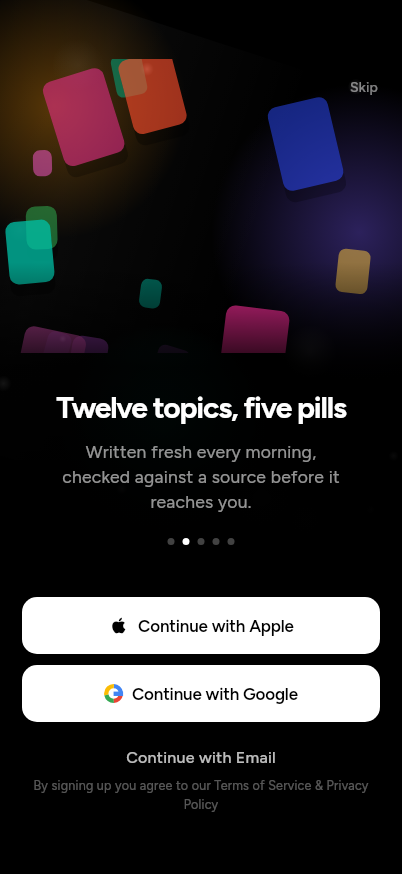
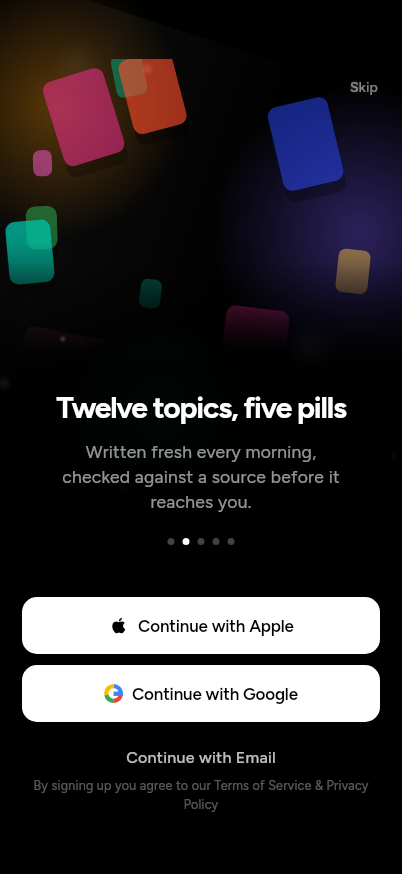
Fade the falling cards out, and take the source label off the card
Two things the phone shots showed.

The cards stopped at the bottom of their box on a straight line. Cards
falling past should leave the picture by fading; a row of them ending
level with each other is the edge of a container, and there should not
be one to see. They fade over the lower third now.

And the source label lay across the card, covering the one thing the
card is there to show. A label on top of artwork reads as a sticker
nobody peeled off. It sits above the deck and to the left, level with
Skip on the other side, so the two read as a pair of captions rather
than as something dropped on the picture.

Tests hold at 141.

Claude-Session: https://claude.ai/code/session_01N7S5NWHHUHV1bxBrKEgGPn

diff --git a/lib/screens/intro_screen.dart b/lib/screens/intro_screen.dart
@@ -883,42 +883,54 @@ class _SceneRain extends StatelessWidget {
     return SizedBox(
       width: _SceneStage.width,
       height: _SceneStage.bandHeight,
-      child: ClipRect(
-        child: Stack(
-          children: [
-            Opacity(
-              opacity: 0.5,
-              child: Stack(
-                children: [
-                  for (int i = 0; i < 10; i++)
-                    _FallingCard(
-                      left: 4 + seeded(i, 33.19) * 88,
-                      width: 16 + seeded(i, 45.11) * 12,
-                      height: 22 + seeded(i, 45.11) * 16,
-                      color: _palette[(i + 2) % _palette.length],
-                      turns: (seeded(i, 78.233) * 40 - 20) / 360,
-                      seconds: 10 + seeded(i, 21.7) * 6,
-                      offset: seeded(i, 9.13) * 14,
-                      opacity: 1,
-                      radius: 6,
-                    ),
-                ],
+      child: ShaderMask(
+        // Cards leave the picture by fading, not by meeting the bottom of
+        // their box. A row of cards ending on a straight line is the edge of
+        // a container, and there should not be one to see.
+        blendMode: BlendMode.dstIn,
+        shaderCallback: (rect) => const LinearGradient(
+          begin: Alignment.topCenter,
+          end: Alignment.bottomCenter,
+          colors: [Color(0xFFFFFFFF), Color(0xFFFFFFFF), Color(0x00FFFFFF)],
+          stops: [0, 0.62, 1],
+        ).createShader(rect),
+        child: ClipRect(
+          child: Stack(
+            children: [
+              Opacity(
+                opacity: 0.5,
+                child: Stack(
+                  children: [
+                    for (int i = 0; i < 10; i++)
+                      _FallingCard(
+                        left: 4 + seeded(i, 33.19) * 88,
+                        width: 16 + seeded(i, 45.11) * 12,
+                        height: 22 + seeded(i, 45.11) * 16,
+                        color: _palette[(i + 2) % _palette.length],
+                        turns: (seeded(i, 78.233) * 40 - 20) / 360,
+                        seconds: 10 + seeded(i, 21.7) * 6,
+                        offset: seeded(i, 9.13) * 14,
+                        opacity: 1,
+                        radius: 6,
+                      ),
+                  ],
+                ),
               ),
-            ),
-            for (int i = 0; i < 18; i++)
-              _FallingCard(
-                left: 2 + seeded(i, 12.9898) * 90,
-                width: 26 + seeded(i, 45.11) * 30,
-                height: 36 + seeded(i, 45.11) * 42,
-                color: _palette[i % _palette.length],
-                turns: (seeded(i, 78.233) * 46 - 23) / 360,
-                seconds: 6.5 + seeded(i, 21.7) * 5,
-                offset: seeded(i, 9.13) * 11,
-                opacity: 0.5 + seeded(i, 33.7) * 0.5,
-                radius: 8,
-                shadow: true,
-              ),
-          ],
+              for (int i = 0; i < 18; i++)
+                _FallingCard(
+                  left: 2 + seeded(i, 12.9898) * 90,
+                  width: 26 + seeded(i, 45.11) * 30,
+                  height: 36 + seeded(i, 45.11) * 42,
+                  color: _palette[i % _palette.length],
+                  turns: (seeded(i, 78.233) * 46 - 23) / 360,
+                  seconds: 6.5 + seeded(i, 21.7) * 5,
+                  offset: seeded(i, 9.13) * 11,
+                  opacity: 0.5 + seeded(i, 33.7) * 0.5,
+                  radius: 8,
+                  shadow: true,
+                ),
+            ],
+          ),
         ),
       ),
     );
@@ -1176,8 +1188,11 @@ class _SceneCard extends StatelessWidget {
             ),
           ),
           Positioned(
-            left: 4,
-            top: 62,
+            left: 12,
+            // Above the deck rather than across it. Lying on the card it
+            // covered the one thing the card is there to show, and a label
+            // over artwork reads as a sticker somebody forgot to peel off.
+            top: 0,
             child: _Pop(
               duration: const Duration(milliseconds: 600),
               delay: const Duration(milliseconds: 620),
